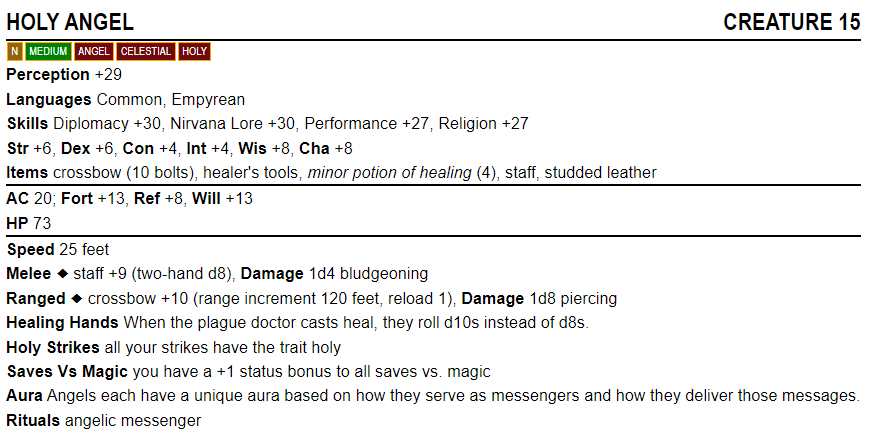
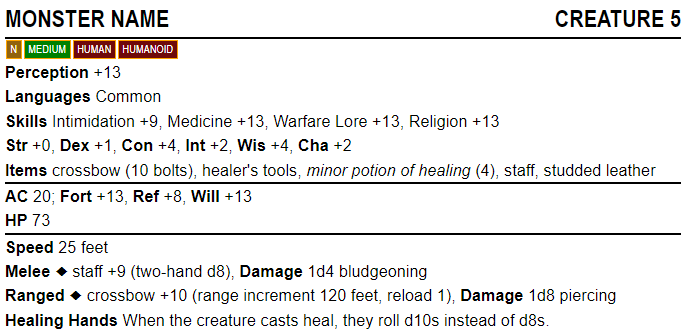
removed redundant link

Changed region(s): [[0.0, 0.0301, 1.0, 1.0]]

diff --git a/client/src/pages/creatureCreator/index.jsx b/client/src/pages/creatureCreator/index.jsx
@@ -179,7 +179,7 @@ export default function CreatureCreator() {
         miscAbilities: [
             {
                 name: "Healing Hands",
-                description: "When the plague doctor casts heal, they roll d10s instead of d8s."
+                description: "When the creature casts heal, they roll d10s instead of d8s."
             }
         ]
     });

diff --git a/client/src/pages/projects.jsx b/client/src/pages/projects.jsx
@@ -8,6 +8,7 @@ export default function Projects() {
     <div className="projects container">
       <Card 
         url="creatureCreator"
+        image="creatureFromWebsite.png"
         title="Creature Creator"
         description="Use this React program to make Pathfinder creatures that look straight from the book!"
       />

diff --git a/client/src/components/header.jsx b/client/src/components/header.jsx
@@ -7,7 +7,6 @@ export default function Header() {
 		</a>
 		
 		<nav className="links">
-			<a href="/">Home</a>
 			<a href="/projects">Projects</a>
 			<a href="/about">About</a>
 		</nav>
